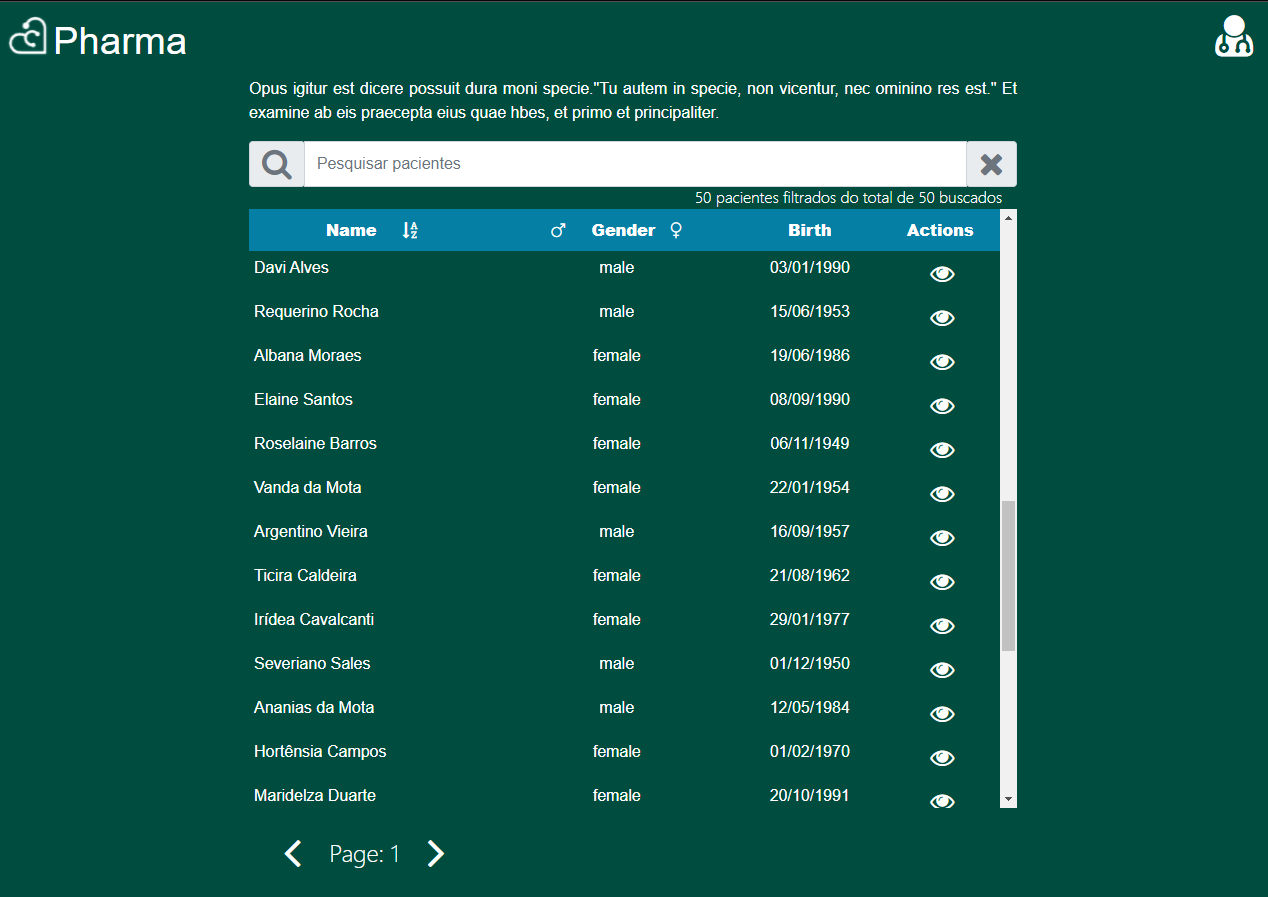
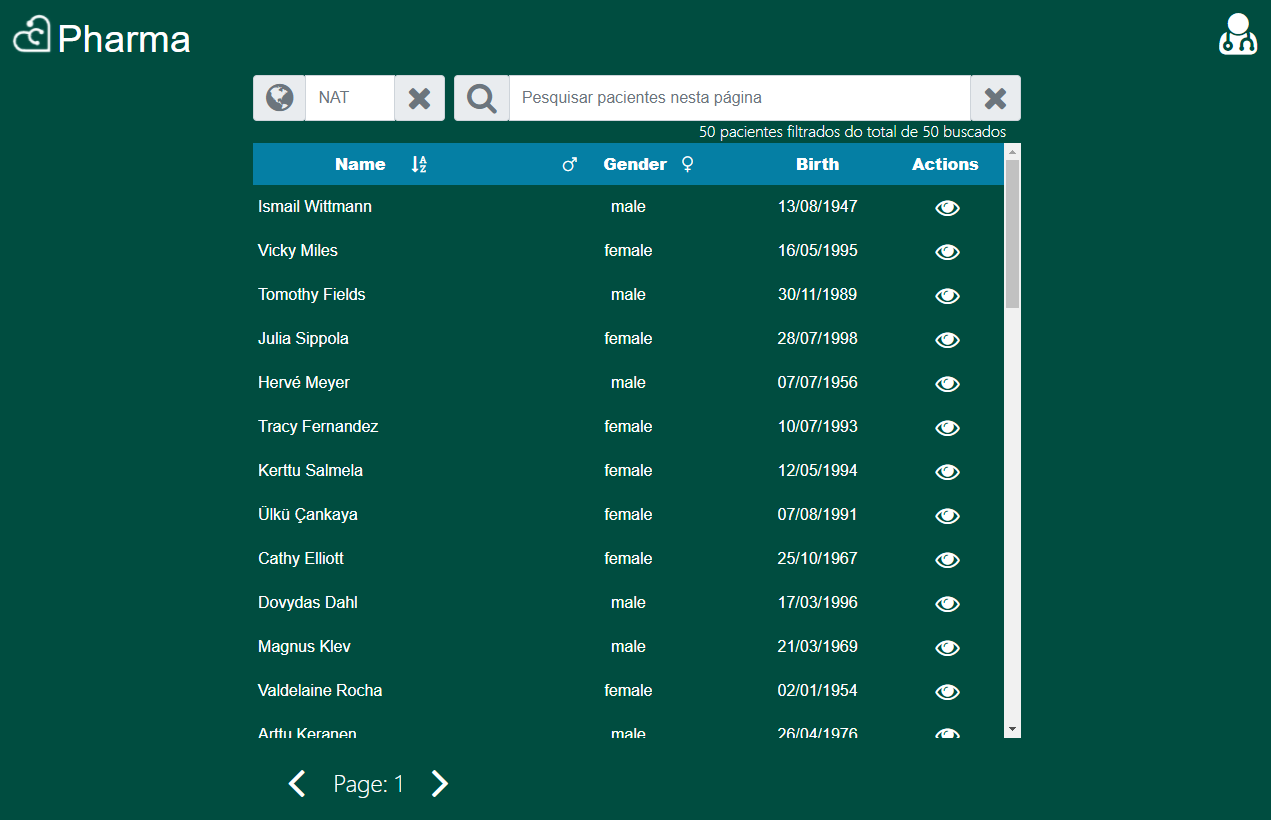
readme

diff --git a/README.md b/README.md
@@ -8,41 +8,47 @@
 
 
 
-## Front-End Challenge 🏅 2021 - Pesquisa de Pacientes
+## Front-End Challenge by Coodesh 🏅 2021 - Pesquisa de Pacientes
 - Projeto desenvolvido como teste de capacitação para a **Coodesh**.
+---
+## 🩺Descrição
+Aplicativo feito para buscar pacientes e seus dados, numa consulta com váriios filtros, utilizado a API https://randomuser.me/api/
 
-## 🩺Descrição📄
-Aplicativo feito para buscar pacientes e seus dados, numa consulta com váriios filtros, utilizado a API https://randomuser.me/api/ onde foram notadas algumas falhas impossibilitando a realização de algumas requisições do projeto.
+---
 
-## 👨🏼💻 Tecnologias utilizadas nesse projeto
+## 💻 Tecnologias utilizadas nesse projeto
 
 - VueJS
 - Vuex
 - Axios
 - BootstrapVue
 
-## 👇🏼Como baixar o projeto
-````
+---
 
-````
+## 📦 Como baixar e instalar o projeto
+```bash
+# Clonar repositório
+$ git clone https://github.com/fred512/pharma
 
+# Entrar no diretório
+$ cd\pharma
 
-- Como instalar e usar o projeto (instruções)
-- Não esqueça o [.gitignore](https://www.toptal.com/developers/gitignore)
-- Se está usando github pessoal, referencie que é um challenge by coodesh 
+# Instalar as dependências
+$ npm install
 
-## Finalização e Instruções para a Apresentação
+# Executar o projeto 
+$ npm run serve
+```
+---
 
-Avisar sobre a finalização e enviar para correção.
+## Utilizando o projeto🏃🏼♂🏃🏼♂🏃🏼♂ 
+- No carregamento a 1ª solicitação é feita automaticamente carregando os primeiros 50 pacientes.
+- Feito o carregamento, para procurar um paciente pode digitar seu nome no campo "Pesquisar pacientes nesta página". Depois clicar na 🔍Lupa para efetivar a pesquisa.
+en- Para limpar essa pesquisa, clicar no botão ✖ do campo "Pesquisar pacientes nesta página", então todos os pacientes serão exibidos novamente.
+- Se quiser buscar pacientes de um pais específico, preencha o campo "NAT" com a sigla do país desejado. Depois clicar no botão 🌍mundo que a busca será realizada retornando só pacientes do país selecionado. Quando não existem resultados para o país digitado a tabela não sofre alteração nenhuma, pois a API desconsidera o país sem pacientes e retorna como se não fosse especificado um país.
+- Para avançar na pesquisa, clique na ▶ seta abaixo da tabela de resultados. Serão carregados mais 50 pacientes para consulta.
+- Para retornar na pesquisa, clique na ◀ seta abaixo da tabela de resultados. Serão carregados os 50 pacientes anteriores para consulta.
+- Se quiser ver detalhes de um paciente clique no ícone de 👁 visão na linha do paciente. Será exibido uma janela com os dados do paciente. Para sair do detalhamento, clique no botão ❌ acima à direita da janela.
+- Para ordenar a tabela por nome de paciente clique no ícone de ordenamento no cabeçalho da tabela, ao lado da palavra **Name**. Os pacientes serão listados em ordem alfabética crescente. Ao clicar neste ícone novamente a ordenação será decrescente.
+- Para filtrar os pacientes na página por sexo, clique no ícone masculino ou feminino. Para cancelar esse filtro clique na palavra **Gender**.
 
-1. Confira se respondeu o Scorecard Front-end;
-2. Verique se o Readme está bom e faça o commit final em seu repositório;
-3. Acesse: [https://coodesh.com/review-challenge](https://coodesh.com/review-challenge);
-4. Coloque seu nome completo; 
-5. Coloque seu e-mail;
-6. Adicione o repositório com a sua solução;
-7. Confira a vaga desejada;
-
-![Solicitar Correção](https://res.cloudinary.com/coodesh/image/upload/v1612571243/coodesh-teams/challenges/repo.gif)
-
-8. Envie e aguarde as instruções para apresentação da sua solução
